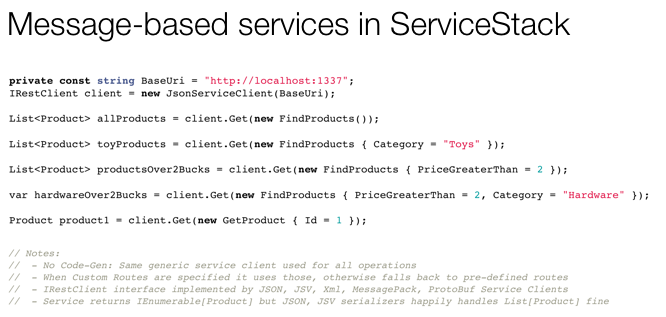
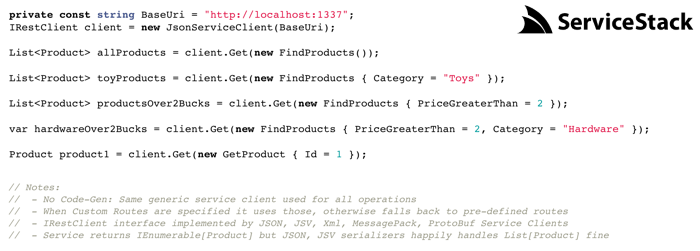
Update images + docs for message-based examples

diff --git a/docs/_documentation/What-is-a-message-based-web-service.md b/docs/_documentation/What-is-a-message-based-web-service.md
@@ -31,11 +31,30 @@ More importantly, message-based designs encourage the design of coarse-grained a
 
 This is an especially important approach to take whenever implementing service-intensive systems like SOA platforms, as services routinely end up out-living and serving more clients that the original client that consume them, so it's important not to have your service APIs driven by adhoc client-specific requirements. It's more useful to think about designing APIs from the system's perspective with the goal of exposing the underlying systems capabilities in a generically re-usable API. This is the main reason why I now only ever adopt message-based designs for all my services endpoints as Coarse-grained APIs naturally encourage the design of more re-usable and feature-rich APIs.
 
-### Adopted by most leading distributed frameworks
+## Adopted by most leading distributed frameworks
 
 Benefits of message-based designs are already well-known to developers of leading distributed frameworks who have adopted message-based designs in leading platforms, e.g: Google's Protocol Buffers, Amazon's Web Services platform, Erlang processes, F# mailboxes, Scala's Actors, Go's Channels, Dart's Isolates and Clojure's agents, etc.
 
-![Message-based Services in ServiceStack](https://raw.githubusercontent.com/ServiceStack/docs/master/docs/images/messaging/example-servicestack-csharp.png)
-![Concurrency in F#](https://raw.githubusercontent.com/ServiceStack/docs/master/docs/images/messaging/example-fsharp.png)
-![Google Protobuf Messages](https://raw.githubusercontent.com/ServiceStack/docs/master/docs/images/messaging/example-google-protobuf.png)
-![Scala and Go Actors](https://raw.githubusercontent.com/ServiceStack/docs/master/docs/images/messaging/example-scala-actors.png)
+### Message-based Services in ServiceStack
+
+![](https://raw.githubusercontent.com/ServiceStack/docs/master/docs/images/messaging/example-servicestack-csharp.png)
+
+### Message-based Services in AWS clients
+
+![](https://raw.githubusercontent.com/ServiceStack/docs/master/docs/images/messaging/example-simpledb-csharp.png)
+
+### Concurrency in F# - Erlang Style Message Passing  
+
+![](https://raw.githubusercontent.com/ServiceStack/docs/master/docs/images/messaging/example-fsharp.png)
+
+### Google Protobuf Messages
+
+![](https://raw.githubusercontent.com/ServiceStack/docs/master/docs/images/messaging/example-google-protobuf.png)
+
+### Scala Actors
+
+![](https://raw.githubusercontent.com/ServiceStack/docs/master/docs/images/messaging/example-scala-actors.png)
+
+### Go Channels
+
+![](https://raw.githubusercontent.com/ServiceStack/docs/master/docs/images/messaging/example-go-channels.png)
